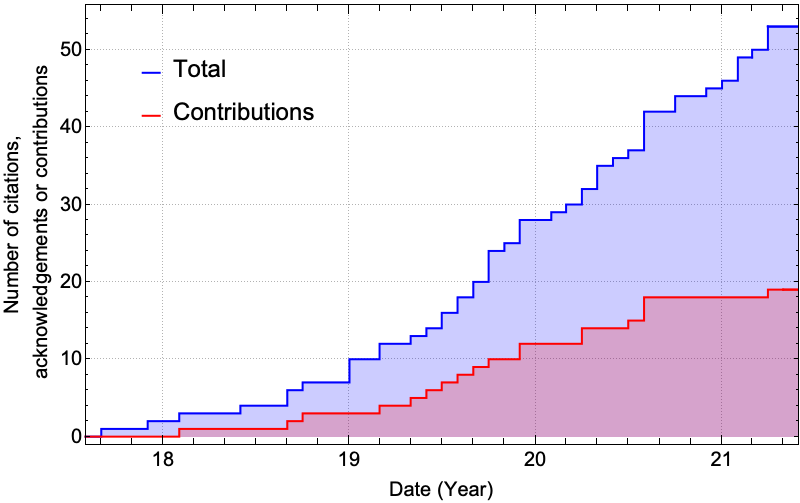
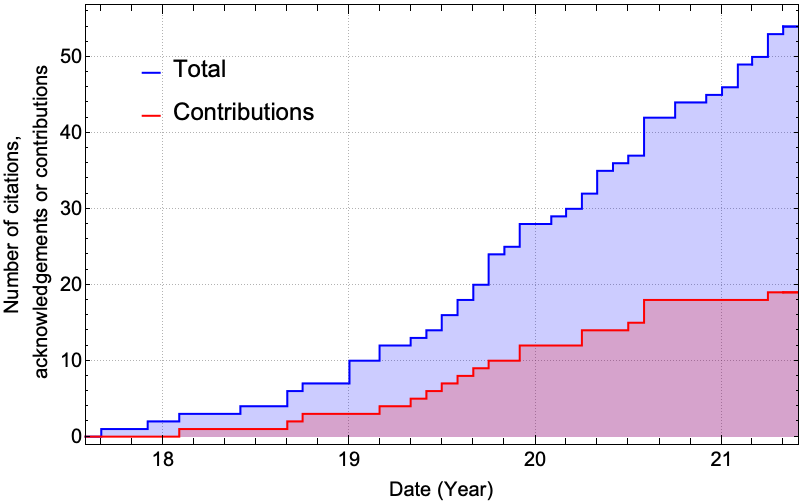
Add paper that cites the Toolkit

diff --git a/users.md b/users.md
@@ -19,6 +19,8 @@ The graph below show the accumulated citations to the Toolkit over time. The blu
 
 Below is a list of research papers that have used or extended the Toolkit. Papers that have contributed code or data to the Toolkit have a (*) after them.
 
+54\. Time-domain metric reconstruction for hyperbolic scattering, Oliver Long, Leor Barack, [arXiv:2105.05630](https://arxiv.org/abs/2105.05630)
+
 53\. Black-Hole Perturbation Plus Post-Newtonian Theory: Hybrid Waveform for Neutron Star Binaries, Xuefeng Feng, Zhenwei Lyu, Huan Yang, [arXiv:2104.11848](https://arxiv.org/abs/2104.11848)
 
 52\. FastEMRIWaveforms: New tools for millihertz gravitational-wave data analysis, Michael L. Katz, Alvin J.K. Chua, Lorenzo Speri, Niels Warburton, Scott A. Hughes, [arXiv:2104.04582](https://arxiv.org/abs/2104.04582) (*)
